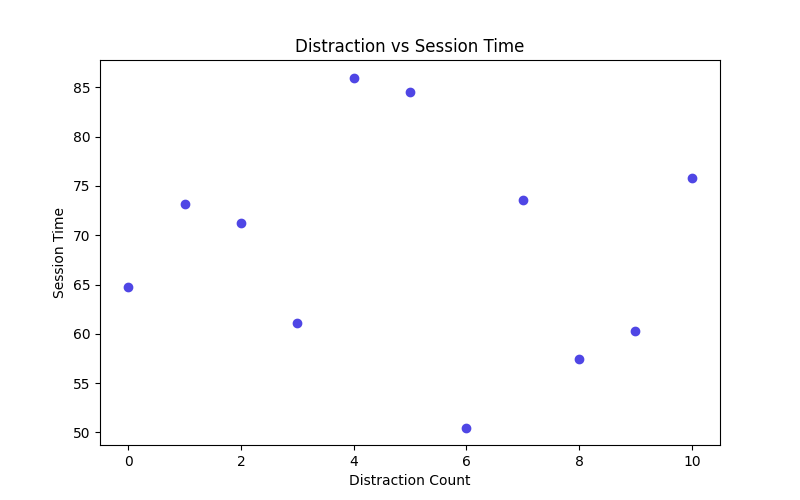
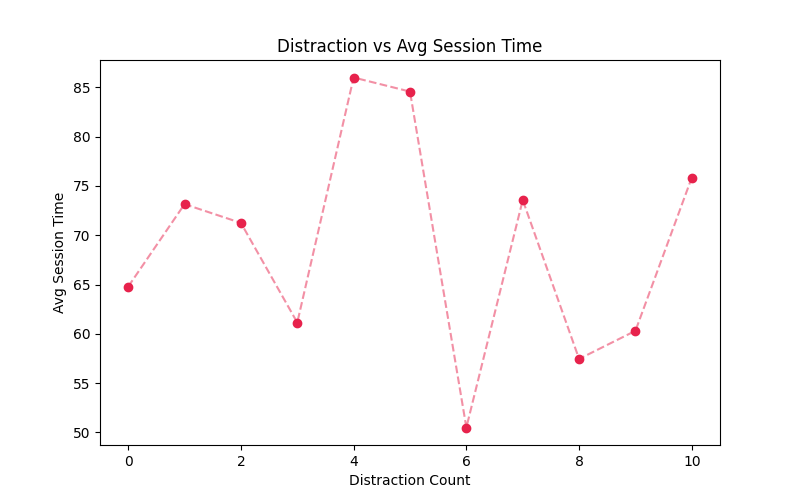
fix: few fixes in graphs

diff --git a/scripts/visualize.py b/scripts/visualize.py
@@ -3,21 +3,24 @@ import matplotlib.pyplot as plt
 def plot_data(df1, df2):
 
     color1= "#932ED6"
-    color2 = "#4F46E5"
+    color2 = "#E7224C"
 
     # Graph 1
     plt.figure(figsize=(8,5))
     plt.bar(df1["subject"], df1["avg_session"], color=color1)
+    plt.xlabel("Subject")
+    plt.ylabel("Avg Session Time")
     plt.title("Avg Session Time per Subject")
     plt.savefig("output/charts/sql_subject.png")
     plt.close()
 
     # Graph 2
     plt.figure(figsize=(8,5))
-    plt.scatter(df2["distraction_count"], df2["avg_time"], color=color2)
+    plt.scatter(df2["distraction_count"], df2["avg_time"], color=color2, marker='o')
+    plt.plot(df2["distraction_count"], df2["avg_time"], color=color2, linestyle='--', alpha=0.5)
     plt.xlabel("Distraction Count")
-    plt.ylabel("Session Time")
-    plt.title("Distraction vs Session Time")
+    plt.ylabel("Avg Session Time")
+    plt.title("Distraction vs Avg Session Time")
     plt.savefig("output/charts/sql_distraction.png")
     plt.close()
 
